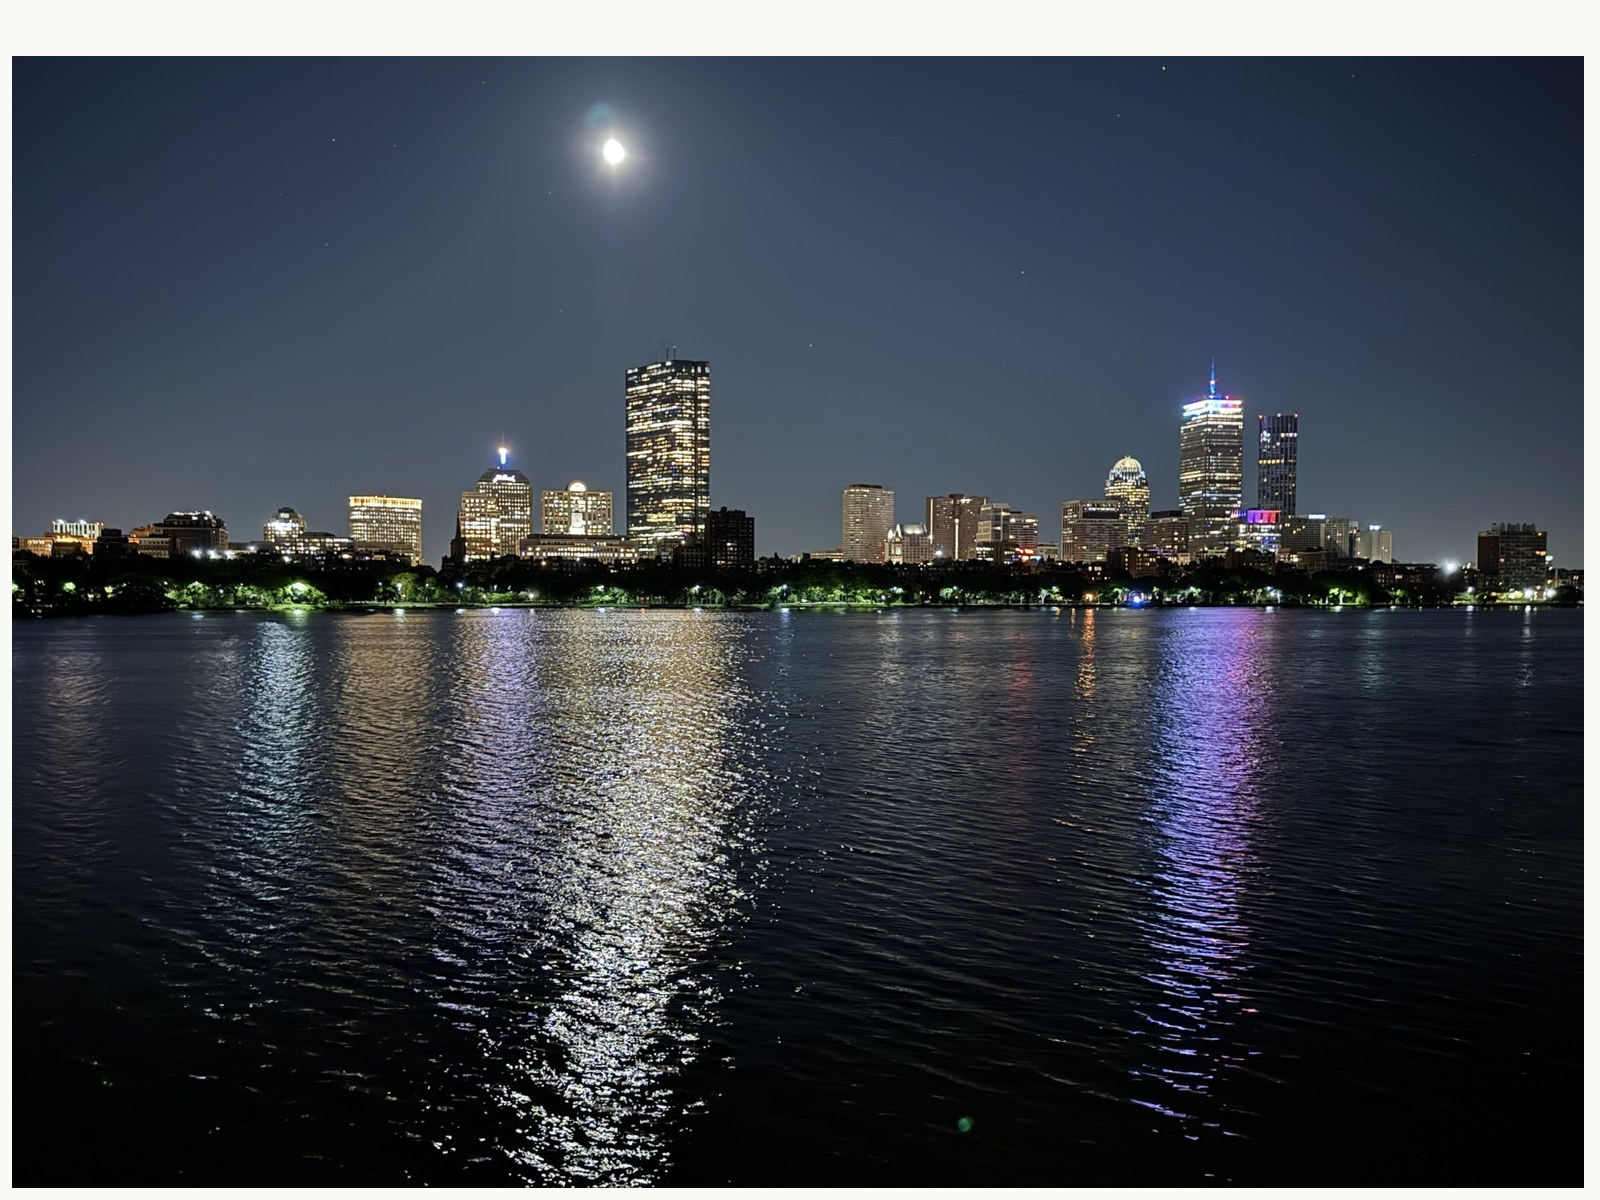
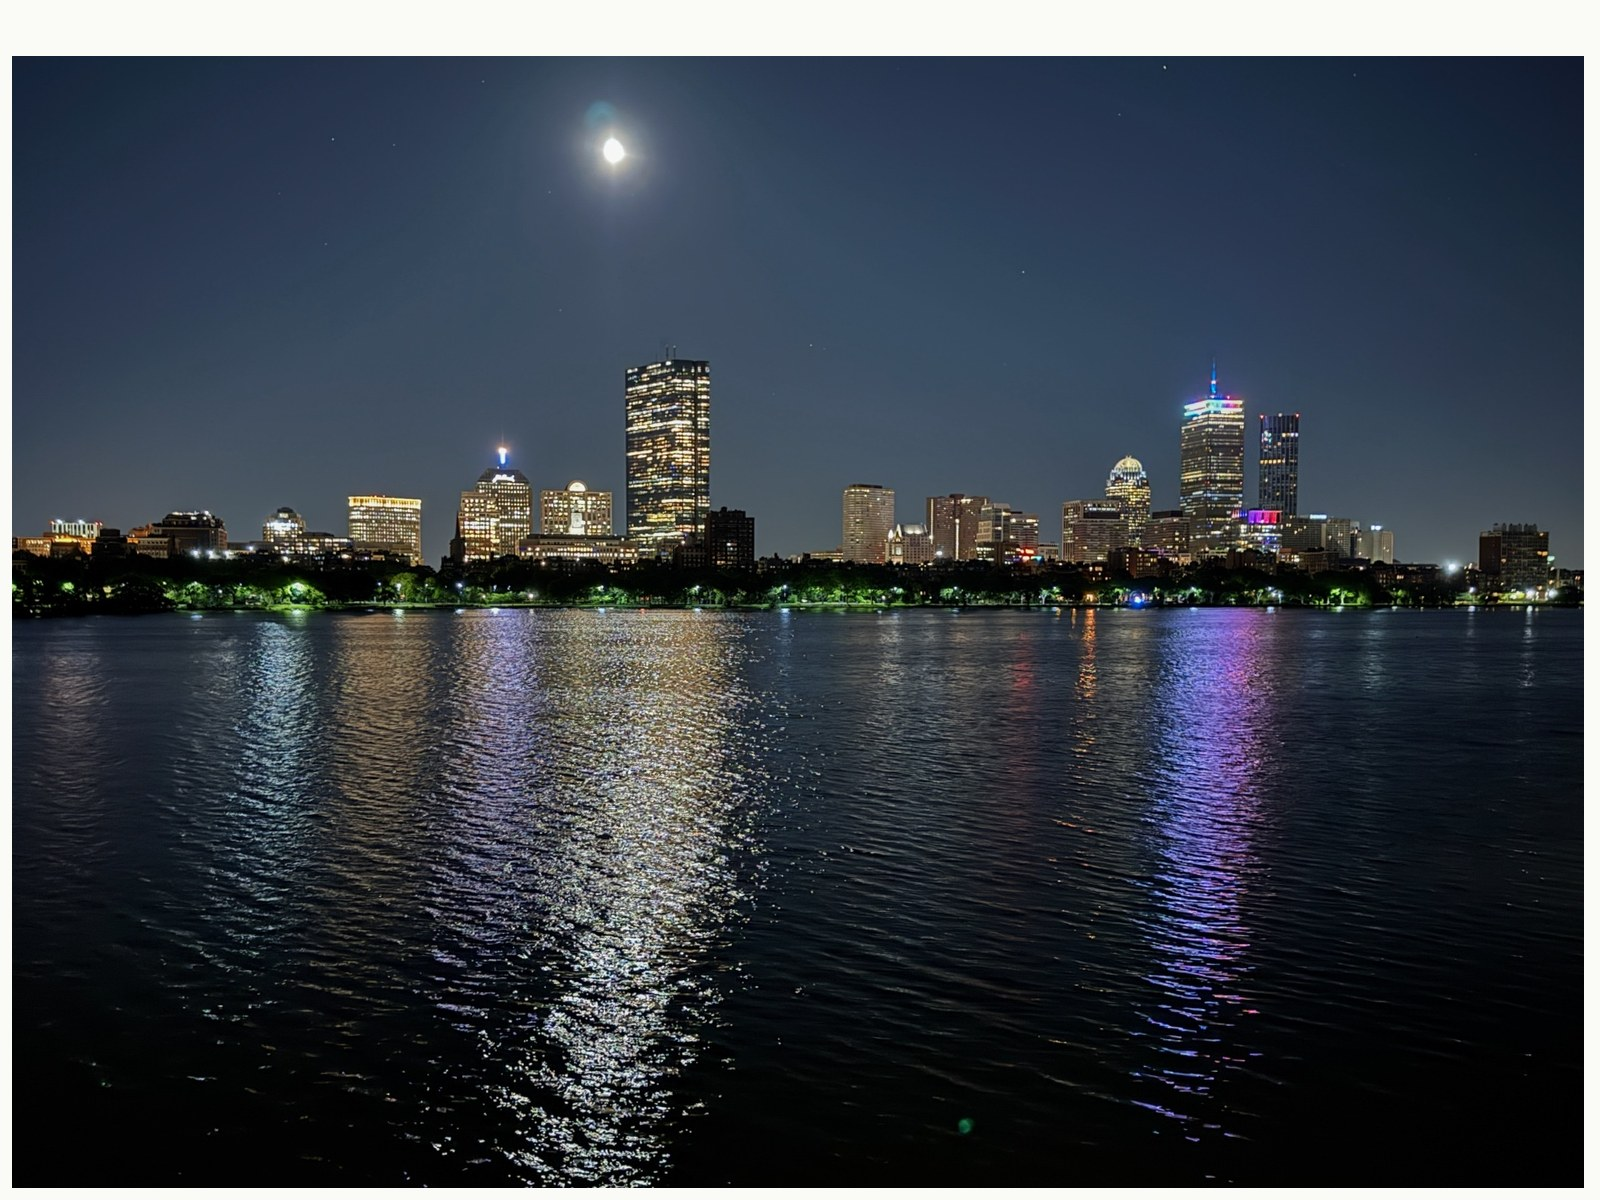
new captions and a photo edit

diff --git a/README.md b/README.md
@@ -35,6 +35,41 @@ Some days you might want to note something special. Edit `captions.json` and add
 
 Re-run `./build.py` and the caption appears below the date/weather line in italic. Photos without an entry get no caption (the default).
 
+## When a push doesn't go live (stuck Pages build)
+
+Every push triggers a GitHub Pages build that redeploys the site. Normally it
+finishes in under a minute. Occasionally the build gets **wedged in GitHub's
+queue** and the site keeps serving the old version — pushing again doesn't help,
+because the new builds just queue up behind the stuck one. This is a GitHub-side
+hiccup, not a problem with the repo.
+
+Check the latest build (needs the [`gh`](https://cli.github.com/) CLI):
+
+```
+gh api repos/dsallydt/dsallydt.github.io/pages/builds/latest \
+  --jq '{status, duration, created_at, updated_at, error: .error.message}'
+```
+
+- **Healthy:** `status` ends up `built` with a nonzero `duration` (~40–60s) — it
+  actually ran.
+- **Stuck:** `status` sits at `building` with `duration: 0` and `updated_at`
+  equal to `created_at` — it never even started; it's wedged in the queue.
+
+**The fix** — request an explicit rebuild, which dislodges the queue so the next
+build runs normally:
+
+```
+gh api -X POST repos/dsallydt/dsallydt.github.io/pages/builds
+```
+
+Wait ~40–60s, re-check with the command above, and it should read `built`. If it
+*still* sits at `duration: 0` after a few minutes:
+
+1. Check [githubstatus.com](https://www.githubstatus.com/) for a Pages incident —
+   if the platform is degraded, just wait it out.
+2. Toggle the Pages source in the repo's **Settings → Pages** (switch the source
+   branch away from `main` and back) to re-provision the build pipeline.
+
 ## What `build.py` does
 
 `build.py` is a thin orchestrator that runs each step in `preprocess/`: